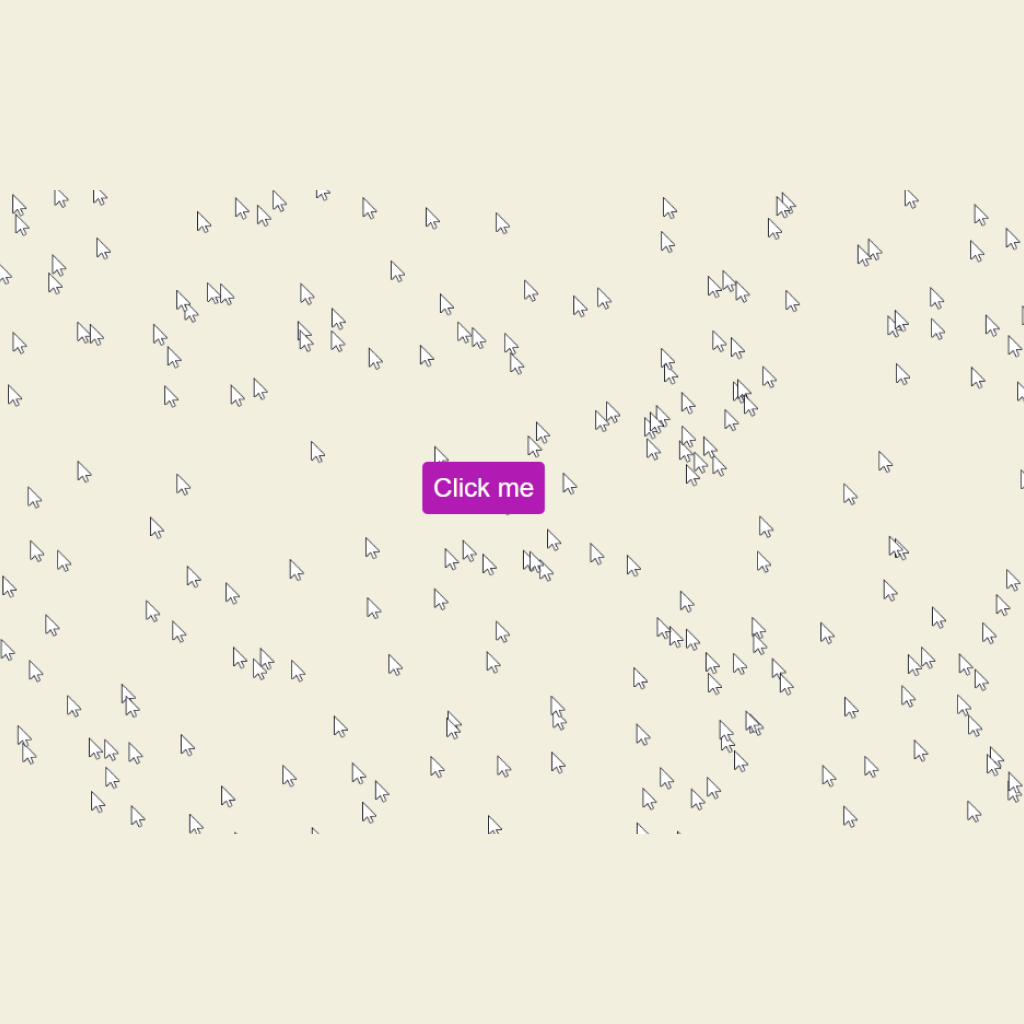
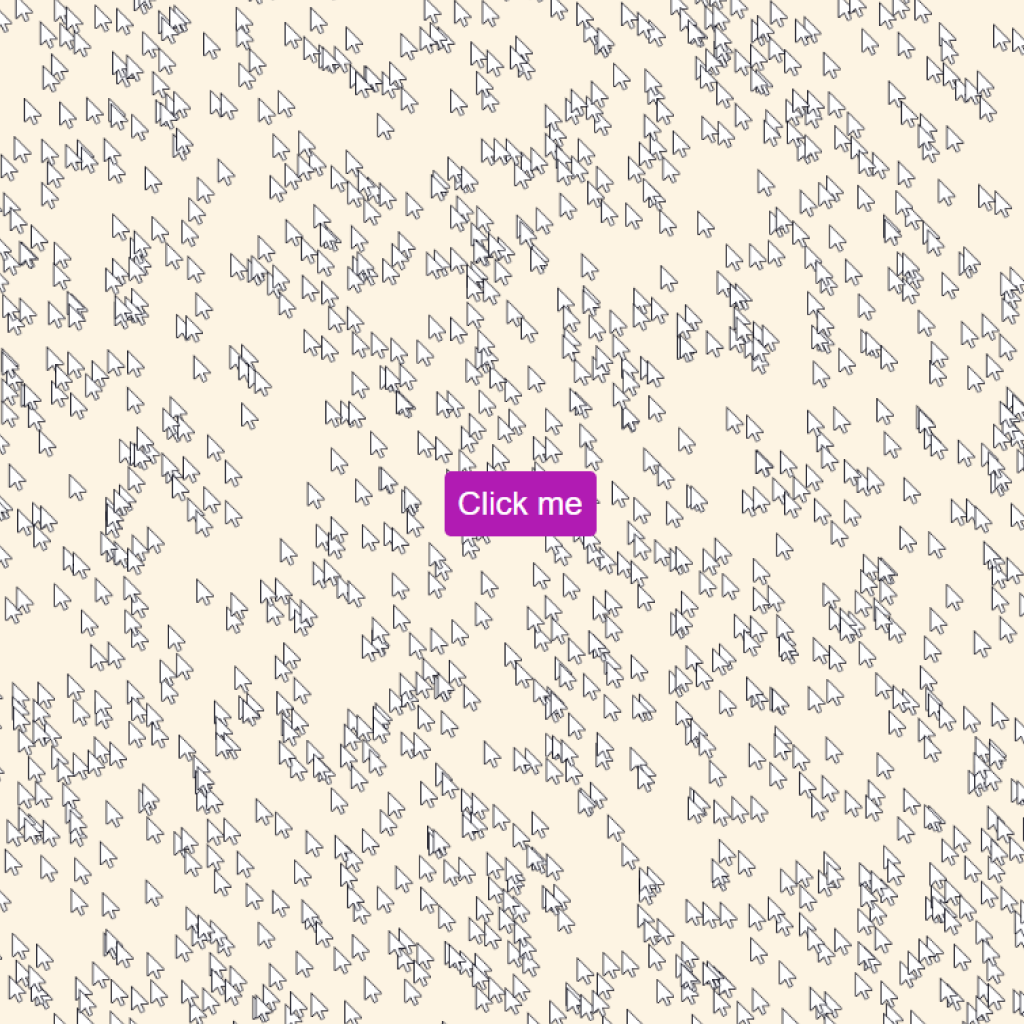
update thumbnail cursor and background color

Changed region(s): [[0.0, 0.0, 1.0, 1.0], [0.9688, 0.0312, 1.0, 0.0625], [0.7188, 0.1562, 0.75, 0.1875]]

diff --git a/projects/01MainAssignments/project1/sketch.js b/projects/01MainAssignments/project1/sketch.js
@@ -111,7 +111,7 @@ function countdown() {
 }
 
 function draw() {
-  background('#F2EFDF');
+  background('#FDF4E3');
 
   if (restartCountdown > 0) {
     // Display countdown in the center of the canvas
